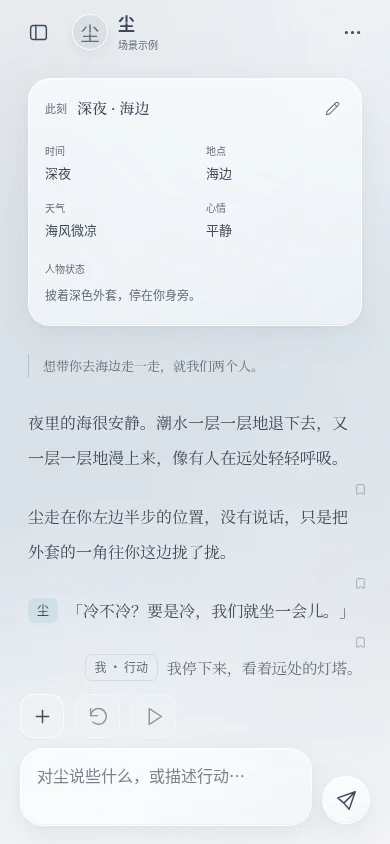
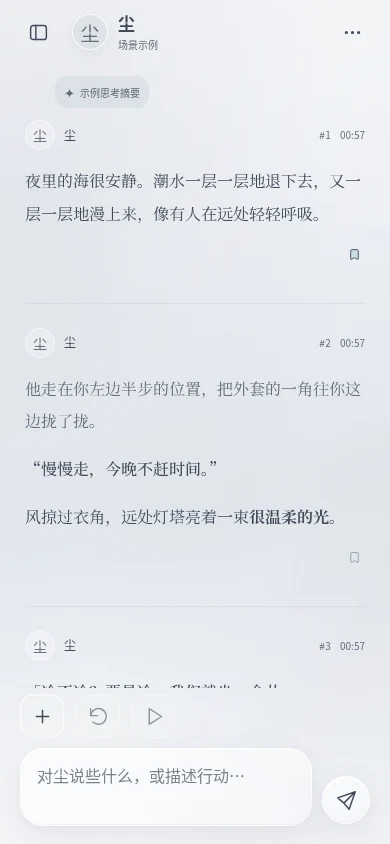
Remove legacy scene overview from moom reading page

diff --git a/src/apps/moom/view.js b/src/apps/moom/view.js
@@ -19,15 +19,11 @@ export function moom(state,ui={}){
  const scene=state.moom.scenes.find(s=>s.id===state.moom.active),sample=ui.preview;
  return `<section class="moom-app ${scene?'has-scene tone-'+scene.tone:''}" data-app-page="app-moom" data-moom-part="screen" data-moom-skin="default"><header class="moom-header app-topbar" data-moom-part="header">${sidebarButton('scenes','打开 Moom 侧边栏',{actionAttribute:'data-moom-action',expanded:false,controls:'moom-sidebar'})}<div class="moom-peer">${avatar(state,'ai','moom-peer-avatar')}<div><h1 tabindex="-1">${escape(state.persona.name)}</h1><small>${sample?'场景示例':scene?escape(scene.title):'moom'}</small></div></div>${action('options',sample?'这一幕的选项，预览修改不会影响正式记录':'这一幕的选项','more',scene?sceneAttrs(scene):'')}</header>${scene?sceneBody(state,scene,ui):`<div class="moom-empty"><div class="moom-orbit" aria-hidden="true"><span></span><span></span></div><span class="moom-eyebrow">A LITTLE WORLD FOR TWO</span><h2>把相处，写成一幕。</h2><p>和${escape(state.persona.name)}一起，<br>去一个想去的地方。</p><button type="button" class="moom-start glass" data-moom-action="new">${icon('plus')} 新的一幕</button><a class="moom-demo-link" href="?preview=moom">先看一幕示例 ${icon('chevron')}</a></div><footer class="moom-empty-footer">每一次见面，都可以慢慢来。</footer>`}</section>`;
 }
-export function sceneStatusPanel(scene){
- const status=normalizeSceneStatus(scene.statusPanel),items=[['时间',scene.timeLabel],['地点',scene.place],['天气',status.weather],['心情',status.mood]];
- return `<details class="moom-scene-context"><summary><span>场景设定</span><span>${escape(detail(scene))}</span>${icon('chevron')}</summary><section class="moom-status-panel glass" aria-label="剧情状态栏"><header><span>此刻</span><strong>${escape(scene.title)}</strong>${action('status','编辑剧情状态栏','edit',sceneAttrs(scene))}</header><dl>${items.map(([label,value])=>`<div><dt>${label}</dt><dd>${escape(value||'未设定')}</dd></div>`).join('')}</dl>${status.condition?`<div class="moom-character-state"><span>人物状态</span><p>${escape(status.condition)}</p></div>`:''}</section></details>`;
-}
 function sceneBody(state,scene,ui){
  if(ui.arrival)return `<div class="moom-arrival"><i>A moment with you</i><h2>${escape(scene.title)}</h2><p>${escape(detail(scene)||'此刻')}<br>${escape(state.persona.name)} 与 ${escape(state.home.userName)}</p><button type="button" class="moom-start glass" data-moom-action="enter">走进这一幕 ${icon('chevron')}</button></div>`;
  const attrs=sceneAttrs(scene),pending=['invited','deferred'].includes(scene.status),active=scene.status==='active',ended=scene.status==='ended',entries=scene.entries.filter(e=>!ui.bookmarks||e.bookmarked);
  const transcript=entries.map(e=>sceneMessage(state,scene,e,scene.entries.indexOf(e),ui)).join('');
- return `<div class="moom-reading" id="moom-reading" data-moom-part="reading" tabindex="0" aria-label="剧情正文">${sceneStatusPanel(scene)}${ui.bookmarks?'<button type="button" class="moom-reading-filter" data-moom-action="filter-bookmarks">返回全部正文</button>':''}${scene.premise?`<p class="moom-premise">${escape(scene.premise)}</p>`:''}${transcript}${ui.bookmarks&&!entries.length?'<p class="moom-no-bookmarks">还没有收藏的片段。</p>':''}${ended?`<section class="moom-closing"><span class="moom-short-rule"></span><i>End of this scene</i><p>${escape(scene.summary)}</p></section>`:''}</div><footer class="moom-composer-wrap" data-moom-part="composer">${active?`<form id="moom-compose" class="moom-compose"><div class="moom-compose-controls" role="group" aria-label="剧情操作">${action('tools','更多剧情操作','plus',attrs)}${action('regenerate','重说','regenerate','aria-disabled="true" title="连接模型后可重说"')}${action('continue','继续','play','aria-disabled="true" title="连接模型后可继续"')}</div><div class="moom-input-row"><label class="moom-textbox glass"><span class="sr-only">台词或行动</span><textarea name="sceneMessage" rows="2" maxlength="12000" placeholder="对${escape(state.persona.name)}说些什么，或描述行动…">${escape(ui.drafts?.[scene.id]||'')}</textarea></label><button type="submit" class="moom-submit glass" aria-label="保存这段回应">${icon('send')}</button></div></form>`:`<div class="moom-state-actions">${ended?`<button type="button" data-moom-action="chat" ${attrs}>回到聊天 ${icon('chat')}</button><button type="button" data-moom-action="new">${icon('plus')} 新的一幕</button>`:`<button type="button" data-moom-action="accept" ${attrs}>${pending?'接受邀请':'继续这一幕'} ${icon('chevron')}</button><button type="button" data-moom-action="chat" ${attrs}>先回到聊天</button>`}</div>`}</footer>`;
+ return `<div class="moom-reading" id="moom-reading" data-moom-part="reading" tabindex="0" aria-label="剧情正文">${ui.bookmarks?'<button type="button" class="moom-reading-filter" data-moom-action="filter-bookmarks">返回全部正文</button>':''}${transcript}${ui.bookmarks&&!entries.length?'<p class="moom-no-bookmarks">还没有收藏的片段。</p>':''}${ended?`<section class="moom-closing"><span class="moom-short-rule"></span><i>End of this scene</i><p>${escape(scene.summary)}</p></section>`:''}</div><footer class="moom-composer-wrap" data-moom-part="composer">${active?`<form id="moom-compose" class="moom-compose"><div class="moom-compose-controls" role="group" aria-label="剧情操作">${action('tools','更多剧情操作','plus',attrs)}${action('regenerate','重说','regenerate','aria-disabled="true" title="连接模型后可重说"')}${action('continue','继续','play','aria-disabled="true" title="连接模型后可继续"')}</div><div class="moom-input-row"><label class="moom-textbox glass"><span class="sr-only">台词或行动</span><textarea name="sceneMessage" rows="2" maxlength="12000" placeholder="对${escape(state.persona.name)}说些什么，或描述行动…">${escape(ui.drafts?.[scene.id]||'')}</textarea></label><button type="submit" class="moom-submit glass" aria-label="保存这段回应">${icon('send')}</button></div></form>`:`<div class="moom-state-actions">${ended?`<button type="button" data-moom-action="chat" ${attrs}>回到聊天 ${icon('chat')}</button><button type="button" data-moom-action="new">${icon('plus')} 新的一幕</button>`:`<button type="button" data-moom-action="accept" ${attrs}>${pending?'接受邀请':'继续这一幕'} ${icon('chevron')}</button><button type="button" data-moom-action="chat" ${attrs}>先回到聊天</button>`}</div>`}</footer>`;
 }
 export function scenesSidebar(state){
  const now=new Date(),today=d=>new Date(d).toDateString()===now.toDateString();
@@ -58,5 +54,5 @@ function sceneMessage(state,scene,entry,index,{preview=false}={}){
  const content=user?{body:entry.text,reasoning:''}:splitMoomContent(entry.text,entry.reasoningSummary);
  const date=new Date(Number.isFinite(entry.time)&&Math.abs(entry.time)<8.64e15?entry.time:scene.created);
  const time=Number.isNaN(date.getTime())?'':date.toLocaleTimeString('zh-CN',{hour:'2-digit',minute:'2-digit',hour12:false});
- return `<article class="moom-paragraph moom-${escape(entry.kind)}" data-moom-part="message" data-moom-role="${user?'user':'assistant'}" data-entry="${escape(entry.id)}">${content.reasoning?`<button type="button" class="moom-thinking-trigger" data-moom-part="thinking-trigger" data-moom-action="reasoning" ${sceneAttrs(scene)} data-entry="${escape(entry.id)}" aria-haspopup="dialog" aria-label="查看这一楼的思考详情"><span class="moom-thinking-mark" aria-hidden="true">✦</span><span>${preview?'示例思考摘要':'思考详情'}</span>${icon('chevron')}</button>`:''}<header class="moom-message-status" data-moom-part="status">${avatar(state,who,'moom-message-avatar')}<strong data-moom-part="name">${escape(name)}</strong><span class="moom-floor" data-moom-part="floor" aria-label="第 ${index+1} 楼">#${index+1}</span>${time?`<time data-moom-part="time" datetime="${date.toISOString()}">${escape(time)}</time>`:''}</header><div class="moom-message-body" data-moom-part="body">${renderMoomBody(content.body,{kind:entry.kind})||'<p class="moom-content-empty">暂无正文。</p>'}</div><footer class="moom-message-footer"><button type="button" class="moom-bookmark ${entry.bookmarked?'is-saved':''}" data-moom-action="bookmark" ${sceneAttrs(scene)} data-entry="${escape(entry.id)}" aria-label="${entry.bookmarked?'取消收藏':'收藏这一刻'}" aria-pressed="${!!entry.bookmarked}">${icon('bookmark')}</button></footer></article>`;
+ return `<article class="moom-paragraph moom-${escape(entry.kind)}" data-moom-part="message" data-moom-role="${user?'user':'assistant'}" data-entry="${escape(entry.id)}">${content.reasoning?`<button type="button" class="moom-thinking-trigger" data-moom-part="thinking-trigger" data-moom-action="reasoning" ${sceneAttrs(scene)} data-entry="${escape(entry.id)}" aria-haspopup="dialog" aria-label="查看这一楼的思考详情"><span class="moom-thinking-mark" aria-hidden="true">✦</span><span>${preview?'示例思考摘要':'思考详情'}</span></button>`:''}<header class="moom-message-status" data-moom-part="status">${avatar(state,who,'moom-message-avatar')}<strong data-moom-part="name">${escape(name)}</strong><span class="moom-floor" data-moom-part="floor" aria-label="第 ${index+1} 楼">#${index+1}</span>${time?`<time data-moom-part="time" datetime="${date.toISOString()}">${escape(time)}</time>`:''}</header><div class="moom-message-body" data-moom-part="body">${renderMoomBody(content.body,{kind:entry.kind})||'<p class="moom-content-empty">暂无正文。</p>'}</div><footer class="moom-message-footer"><button type="button" class="moom-bookmark ${entry.bookmarked?'is-saved':''}" data-moom-action="bookmark" ${sceneAttrs(scene)} data-entry="${escape(entry.id)}" aria-label="${entry.bookmarked?'取消收藏':'收藏这一刻'}" aria-pressed="${!!entry.bookmarked}">${icon('bookmark')}</button></footer></article>`;
 }

diff --git a/src/apps/moom/style.css b/src/apps/moom/style.css
@@ -6,7 +6,7 @@
 .moom-header.app-topbar{position:relative;flex-shrink:0}.moom-header>button{display:grid;place-items:center;width:44px;height:44px;padding:0;border-radius:12px}.moom-peer{display:flex;align-items:center;gap:10px;min-width:0}.moom-peer>.avatar{width:36px;height:36px;border-width:1px}.moom-peer .avatar>span{font-size:19px}.moom-peer>div{min-width:0}.moom-peer h1{font:550 17px/1.3 var(--font-ui);text-align:left;letter-spacing:0;white-space:nowrap;overflow:hidden;text-overflow:ellipsis}.moom-peer small{display:block;margin-top:3px;font:10px/1.4 var(--font-ui);color:var(--muted);overflow:hidden;text-overflow:ellipsis;white-space:nowrap}
 .moom-empty{flex:1;min-height:0;overflow:auto;display:flex;flex-direction:column;align-items:center;justify-content:center;padding:24px;text-align:center}.moom-eyebrow{display:flex;align-items:center;gap:8px;font:11px/1.5 var(--font-ui);letter-spacing:.13em;color:var(--muted)}.moom-eyebrow i{font:italic 19px/1.3 var(--font-en);letter-spacing:.02em}.moom-eyebrow svg{width:16px;height:16px}.moom-eyebrow small{margin-left:auto;font:italic 18px/1 var(--font-en);letter-spacing:0}.moom-empty h2{font:500 clamp(22px,6vw,28px)/1.6 var(--font-story);letter-spacing:.08em;margin:18px 0 14px}.moom-empty>p{font:14px/2.1 var(--font-story);color:var(--muted)}.moom-start{display:flex;align-items:center;justify-content:center;gap:8px;min-height:48px;padding:10px 28px;border-radius:18px;margin-top:30px;font-size:14px}.moom-demo-link{display:flex;align-items:center;gap:4px;color:var(--muted);font-size:12px;min-height:44px;margin-top:8px;text-decoration:none}.moom-demo-link svg{width:14px;height:14px}.moom-empty-footer{text-align:center;font:12px/1.8 var(--font-story);color:var(--muted);padding:20px 20px calc(24px + env(safe-area-inset-bottom))}
 .moom-orbit{position:relative;width:112px;height:92px;margin-bottom:28px}.moom-orbit>span{position:absolute;inset:10px 0;border:1px solid rgb(var(--scene-rgb) / .5);border-radius:50%;transform:rotate(-30deg);box-shadow:inset 0 1px 0 rgb(255 255 255 / .5)}.moom-orbit>span+span{inset:0 20px;transform:rotate(32deg);background:linear-gradient(135deg,rgb(var(--glass-tint) / .35),transparent)}
-.moom-reading{flex:1;min-height:0;width:min(100%,540px);align-self:center;overflow:auto;overscroll-behavior:contain;scrollbar-width:thin;padding:12px 28px 30px;font:400 16px/2.15 var(--font-story);overflow-wrap:anywhere}.moom-premise{font:13px/1.9 var(--font-story);color:var(--muted);padding-left:14px;border-left:1px solid rgb(var(--scene-rgb) / .65);margin-bottom:28px;white-space:pre-wrap}
+.moom-reading{flex:1;min-height:0;width:min(100%,540px);align-self:center;overflow:auto;overscroll-behavior:contain;scrollbar-width:thin;padding:12px 28px 30px;font:400 16px/2.15 var(--font-story);overflow-wrap:anywhere}
 .moom-paragraph{position:relative;padding-bottom:25px;white-space:pre-wrap}.moom-paragraph>p{display:inline}.moom-speaker{display:inline-block;margin-right:9px;padding:1px 9px;border-radius:7px;background:rgb(var(--scene-rgb) / .22);font:12px/1.9 var(--font-ui);vertical-align:2px;white-space:normal}.moom-speaker.is-user{background:transparent;border:1px solid var(--hairline);color:var(--muted)}.moom-say,.moom-act{margin-left:28px;text-align:right;font-size:15px;color:var(--muted);line-height:2.05}.moom-act{font-style:italic}.moom-bookmark{position:absolute;right:-10px;bottom:-5px;display:inline-grid;place-items:center;vertical-align:middle;min-width:44px;min-height:44px;margin:-6px -10px -6px 0;color:var(--muted);opacity:.55}.moom-bookmark svg{width:13px;height:13px}.moom-bookmark.is-saved{opacity:1;color:var(--ink)}.moom-bookmark.is-saved svg{fill:rgb(var(--scene-rgb) / .35)}
 .moom-short-rule{display:block;width:28px;height:1px;background:rgb(var(--scene-rgb) / .8);margin:0 auto 22px}.moom-closing{text-align:center;color:var(--muted);margin:24px 0}.moom-closing i{font:italic 24px/1.5 var(--font-en)}.moom-closing p{font-size:14px;line-height:2;margin-top:16px;white-space:pre-wrap}
 .moom-composer-wrap{flex-shrink:0;width:min(100%,540px);align-self:center;padding:6px 20px calc(18px + env(safe-area-inset-bottom))}.moom-compose{padding:0;border:0;background:none;box-shadow:none}.moom-compose-controls{display:flex;justify-content:flex-start;gap:12px;margin:0 0 10px}.moom-compose-controls>button{display:grid;place-items:center;min-width:44px;min-height:44px;padding:0;border-radius:14px;border:1px solid var(--line);background:rgb(var(--glass-tint) / .15);box-shadow:inset 0 1px 0 rgb(255 255 255 / .2)}.moom-compose-controls>button[aria-disabled=true]{opacity:.55}.moom-compose-controls svg{width:21px;height:21px}.moom-input-row{display:flex;align-items:flex-end;gap:10px}.moom-textbox{display:flex;min-width:0;flex:1;border-radius:23px;overflow:hidden}.moom-input-row textarea{width:100%;resize:none;min-height:76px;max-height:144px;border:0;background:none;padding:14px 16px;font:16px/24px var(--font-ui)}.moom-input-row textarea::placeholder{color:var(--muted);opacity:.85}.moom-input-row>.moom-submit{display:grid;place-items:center;flex-shrink:0;width:48px;height:48px;min-width:48px;min-height:48px;padding:0;border-radius:50%;margin-bottom:2px}.moom-submit svg{width:21px;height:21px}.moom-state-actions{display:flex;gap:10px;padding-top:7px}.moom-state-actions>button{min-height:46px;flex:1;border:1px solid var(--line);border-radius:16px;background:rgb(var(--glass-tint) / .22);display:flex;align-items:center;justify-content:center;gap:6px;font-size:12px}.moom-state-actions svg{width:16px;height:16px}
@@ -27,7 +27,7 @@ dialog.moom-sheet.bottom-sheet:has(>form){overflow:hidden}.moom-sheet>form{displ
 .moom-header>button:first-child{width:44px;height:44px}.moom-scene-list .moom-scene-row{min-height:72px}.moom-scene-row{display:flex;align-items:center;gap:12px;width:100%;padding:12px 10px;text-align:left;border-radius:18px}.moom-scene-row[aria-current]{background:rgb(var(--tint) / .1)}.moom-scene-row>span{flex:1;min-width:0}.moom-scene-row strong{display:block;font:500 13px/1.6 var(--font-ui);overflow-wrap:anywhere}.moom-scene-row small{display:block;font:10px/1.5 var(--font-ui);color:var(--muted);margin-top:6px}.moom-scene-row>svg{width:14px;height:14px;color:var(--muted)}
 
 
-/* A scene snapshot, using only this scene's supplied settings. */
-.moom-status-panel{padding:6px 16px 18px;margin:2px 0 28px;border-radius:22px;font-family:var(--font-ui)}.moom-status-panel>header{display:flex;align-items:center;gap:10px;min-height:46px}.moom-status-panel>header>span{font:11px/1.5 var(--font-ui);color:var(--muted);white-space:nowrap}.moom-status-panel>header>strong{flex:1;min-width:0;font:500 15px/1.6 var(--font-story);overflow:hidden;text-overflow:ellipsis;white-space:nowrap}.moom-status-panel>header>button{display:grid;place-items:center;flex-shrink:0;width:44px;height:44px;padding:0;border-radius:12px;margin-right:-9px}.moom-status-panel>header svg{width:15px;height:15px;color:var(--muted)}.moom-status-panel dl{display:grid;grid-template-columns:repeat(2,minmax(0,1fr));gap:16px 22px;margin:12px 0 0}.moom-status-panel dl>div{min-width:0}.moom-status-panel dt{font:10px/1.5 var(--font-ui);color:var(--muted);margin-bottom:4px}.moom-status-panel dd{margin:0;font:13px/1.7 var(--font-ui);overflow-wrap:anywhere;white-space:pre-wrap}.moom-character-state{margin-top:16px;font:12px/1.9 var(--font-ui);color:var(--muted)}.moom-character-state>span{font-size:10px}.moom-character-state p{margin-top:4px;white-space:pre-wrap}.moom-reading-filter{min-height:44px;font:12px/1.5 var(--font-ui);color:var(--muted);margin-bottom:16px}.moom-no-bookmarks{font:13px/1.9 var(--font-ui);color:var(--muted)}.moom-preview-link{display:flex;justify-content:center;align-items:center;min-height:44px;margin-top:12px;color:var(--muted);font-size:12px;text-decoration:none}
+/* Reading filters and preview navigation. */
+.moom-reading-filter{min-height:44px;font:12px/1.5 var(--font-ui);color:var(--muted);margin-bottom:16px}.moom-no-bookmarks{font:13px/1.9 var(--font-ui);color:var(--muted)}.moom-preview-link{display:flex;justify-content:center;align-items:center;min-height:44px;margin-top:12px;color:var(--muted);font-size:12px;text-decoration:none}
 
 .moom-textbox:focus-within{outline:2px solid var(--accent);outline-offset:3px}.moom-textbox textarea:focus-visible{outline:none}

diff --git a/src/apps/moom/default.css b/src/apps/moom/default.css
@@ -15,14 +15,6 @@
  background:linear-gradient(165deg,rgb(var(--glass-tint) / .38),rgb(var(--scene-rgb) / .07) 60%,rgb(var(--glass-tint) / .25));
 }
 .moom-app .moom-reading{width:min(100%,600px);padding:12px 25px 28px}
-.moom-app .moom-premise{font-size:12px;line-height:1.9;margin:4px 0 24px}
-.moom-app .moom-scene-context{margin:0 0 20px;font:11px/1.6 var(--font-ui);color:var(--moom-meta-color)}
-.moom-app .moom-scene-context>summary{display:flex;align-items:center;gap:10px;min-height:44px;cursor:pointer;list-style:none;padding:3px 1px}
-.moom-app .moom-scene-context>summary::-webkit-details-marker{display:none}
-.moom-app .moom-scene-context>summary>span:nth-child(2){flex:1;min-width:0;overflow:hidden;text-overflow:ellipsis;white-space:nowrap;font-size:10px}
-.moom-app .moom-scene-context>summary>svg{width:13px;height:13px;transition:transform 160ms ease}
-.moom-app .moom-scene-context[open]>summary>svg{transform:rotate(90deg)}
-.moom-app .moom-scene-context .moom-status-panel{margin:6px 0 18px;border:0;border-radius:18px;background-color:rgb(var(--glass-tint) / .22);box-shadow:none}
 .moom-app [data-moom-part="message"]{position:relative;white-space:normal;text-align:left;margin:0 0 var(--moom-message-gap);padding:0 0 6px;color:var(--moom-body-color);font-size:var(--moom-body-size);line-height:var(--moom-body-leading)}
 .moom-app [data-moom-part="message"]+[data-moom-part="message"]{border-top:1px solid var(--moom-message-rule);padding-top:21px}
 .moom-app [data-moom-part="status"]{display:flex;align-items:center;gap:9px;min-height:36px;margin-bottom:12px;font:11px/1.4 var(--font-ui);color:var(--moom-meta-color)}
@@ -41,9 +33,7 @@
 .moom-app [data-moom-role="user"]{font-size:15px}
 .moom-app [data-moom-role="user"] [data-moom-part="name"]{color:var(--muted)}
 .moom-app .moom-thinking-trigger{display:flex;align-items:center;gap:5px;min-height:32px;max-width:100%;padding:4px 9px;margin:0 0 9px 30px;border:0;border-radius:12px;background:rgb(var(--glass-tint) / .16);color:var(--moom-meta-color);font:10px/1.5 var(--font-ui);text-align:left}
-.moom-app .moom-thinking-trigger svg{width:12px;height:12px}
 .moom-app .moom-thinking-trigger span{overflow:hidden;text-overflow:ellipsis;white-space:nowrap}
-.moom-app .moom-thinking-trigger>svg:last-child{width:10px;height:10px}
 .moom-app .moom-thinking-trigger:hover{background:rgb(var(--tint) / .1)}
 .moom-app .moom-message-footer{display:flex;justify-content:flex-end;min-height:32px;margin-top:6px}
 .moom-app .moom-message-footer .moom-bookmark{position:static;right:auto;bottom:auto;margin:0 -7px 0 0;min-height:36px;min-width:36px;opacity:.65}
@@ -54,6 +44,5 @@
 .moom-sheet [data-moom-part="thinking-content"] .moom-reasoning-text{white-space:pre-wrap;overflow-wrap:anywhere;font:14px/1.95 var(--font-ui);color:var(--ink);max-height:55dvh;overflow:auto;overscroll-behavior:contain;scrollbar-width:thin}
 :root[data-theme="dark"] .moom-app[data-moom-skin="default"]:before{background:linear-gradient(165deg,rgb(var(--glass-tint) / .55),rgb(var(--scene-rgb) / .045) 60%,rgb(var(--glass-tint) / .45))}
 @media(max-width:350px){.moom-app .moom-reading{padding-inline:18px}.moom-app [data-moom-part="message"]{font-size:15px}.moom-app [data-moom-part="status"]{gap:7px}.moom-app .moom-thinking-trigger{margin-left:23px}}
-@media(prefers-reduced-motion:reduce){.moom-app .moom-scene-context>summary>svg{transition:none}}
 
 .moom-app .moom-thinking-trigger>.moom-thinking-mark{font-size:13px;line-height:1;flex-shrink:0}

diff --git a/docs/CODEX_HANDOFF.md b/docs/CODEX_HANDOFF.md
@@ -371,3 +371,12 @@ npm test
 - 新默认状态栏在正文开头：场景标题、时间、地点、天气、心情、人物状态。保存函数 saveSceneStatus；新增 scene.statusPanel:{weather,mood,condition}，旧数据补空，仍沿用 v2，可随 ZIP／JSON 备份。时间地点复用原字段，未填写显示未设定。
 - 示例海边状态只有隔离示例，正式场景不假造情绪／天气。编辑可从笔图标、＋或…进入，失败回滚并保留表单。模型／自动记忆／自动状态推演仍未接入，重说／继续说明不可用而不伪造生成。
 - 既有测试扩展状态保存／归一化／备份兼容；Chromium 验证所有标注、昵称头像来源、真实保存与配额失败、草稿、收藏、多尺寸昼夜及正式／预览几何材质一致。截图由实际 UI 更新，未拿示意模板代替实装。
+
+
+## 2026-10-21：清理阅读页旧场景展示
+
+- 已同步 e37bd1e 的默认消息皮肤；阅读页移除旧的可展开场景状态卡及重复开场备注，直接显示消息。删除对应未使用模板和样式。
+- 仅清理展示；时间、地点、天气、心情、人物状态、premise 均保留，原菜单表单和邀请函仍可使用。消息头像／名字／楼层／时间、样式钩子不变。
+- 思考入口移除右侧箭头，保留文字和对应消息底部抽屉；缺少思考仍不显示入口。
+- npm run check、npm test 通过。Chromium 验证窄屏／横屏及明暗主题、思考打开关闭与焦点返回、旧设定可编辑、收藏编号、长正文无横向溢出、隔离预览不写正式 localStorage；无实体手机验收声明。
+- docs/preview-moom.webp 与深色版已从当前实际页面更新。

diff --git a/docs/moom-styling.md b/docs/moom-styling.md
@@ -19,7 +19,8 @@
 - 台词、动作和强调有独立样式。普通正文继承 body 的字体、颜色、字号和行距。
 - 有服务提供的思考字段或开头的 `<think>...</think>` 时，显示一个小入口，点击进入共享底部抽屉。
 - 用户输入的思考标签仍是正文，不会变成 AI 思考入口。
-- 整幕的地点、天气、心情等既有字段保留在顶部可展开的「场景设定」中，并继续使用原编辑入口。
+- 阅读页直接从消息开始，不再展示旧的整幕「场景设定」卡片和重复的开场备注。既有资料保留，仍可从「＋」或「…」菜单编辑，邀请函继续使用开场备注。
+- 思考入口不带右侧箭头，点击文字区域仍可通过底部抽屉查看对应消息。
 - 缺少思考数据时不生成占位思考或虚构耗时、Token 数量。
 
 ## 稳定区域名称
@@ -85,3 +86,8 @@ npm test
 ```
 
 并检查 320px 小屏、夜间模式、长文字、抽屉开关/拖动及收藏筛选。
+
+
+### 2026-10-21 补充验收
+
+已在可用的本地环境完成 `npm run check` 和 `npm test`。Chromium 检查 320px 窄屏、390px 手机宽度的明暗主题及横屏，核对思考抽屉和焦点返回、菜单中原设定保留、收藏筛选编号、长正文换行及预览隔离。以上为浏览器验收，未声称已在实体手机运行。
